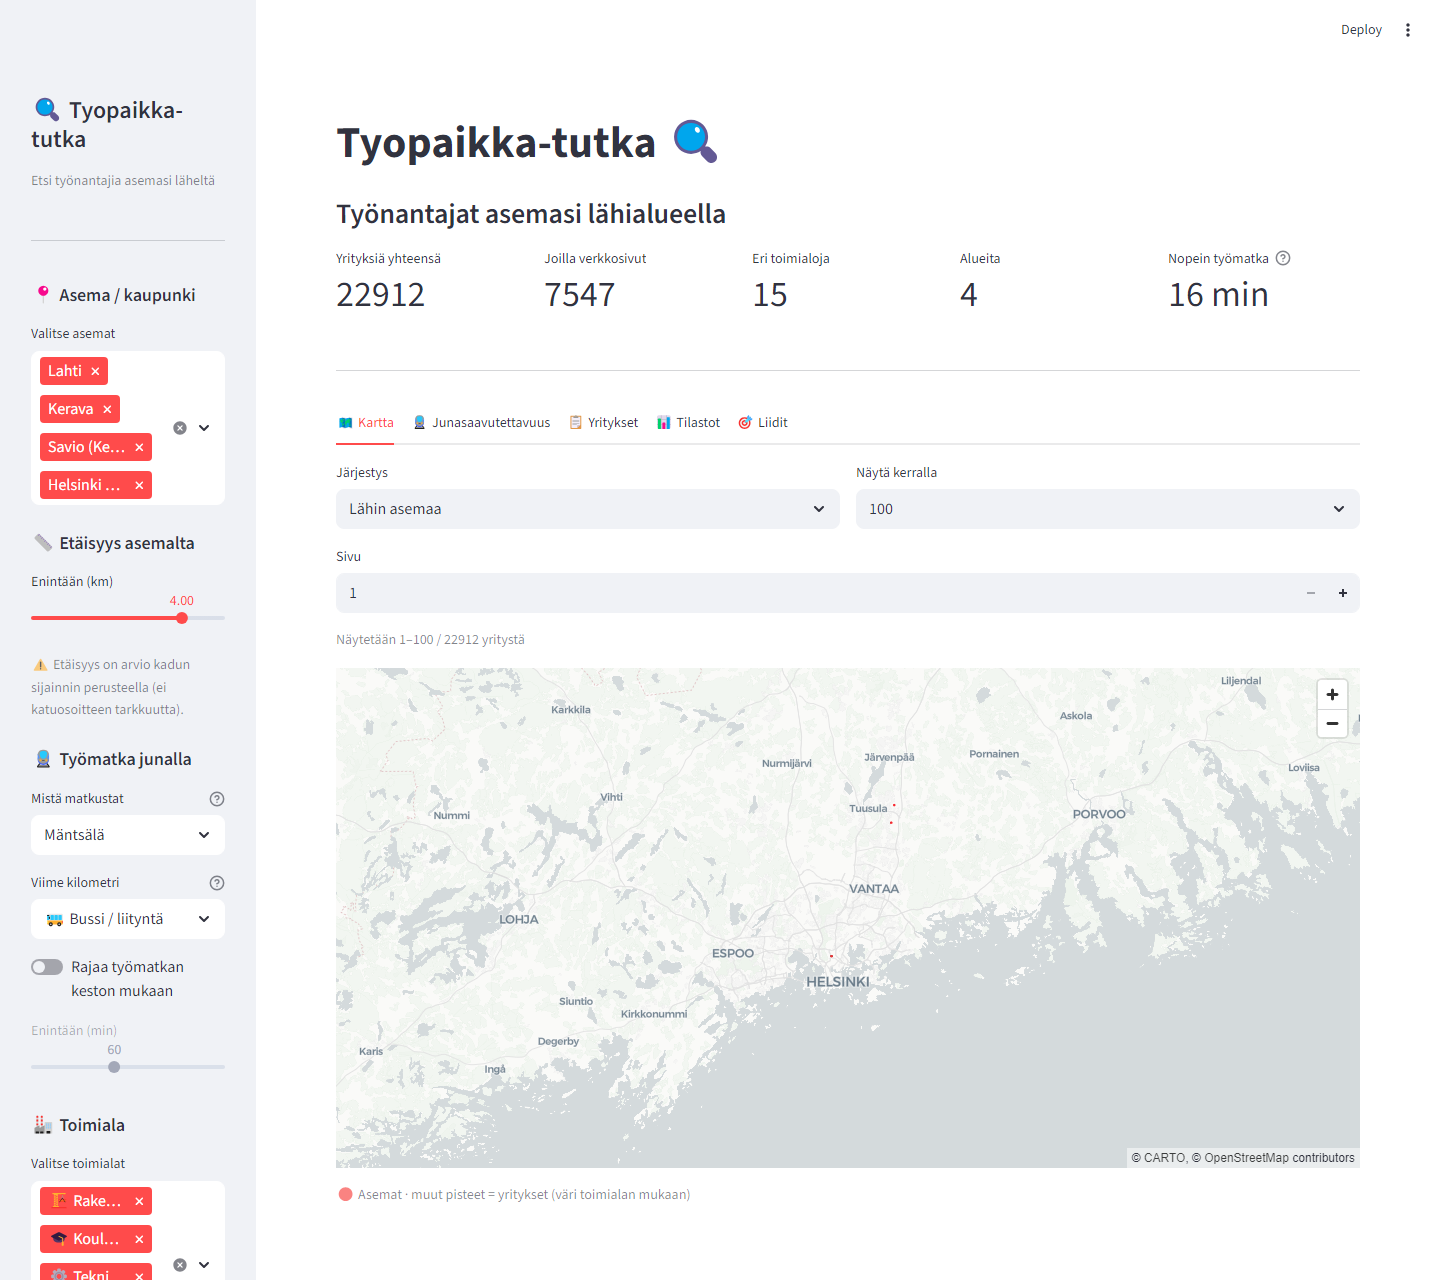
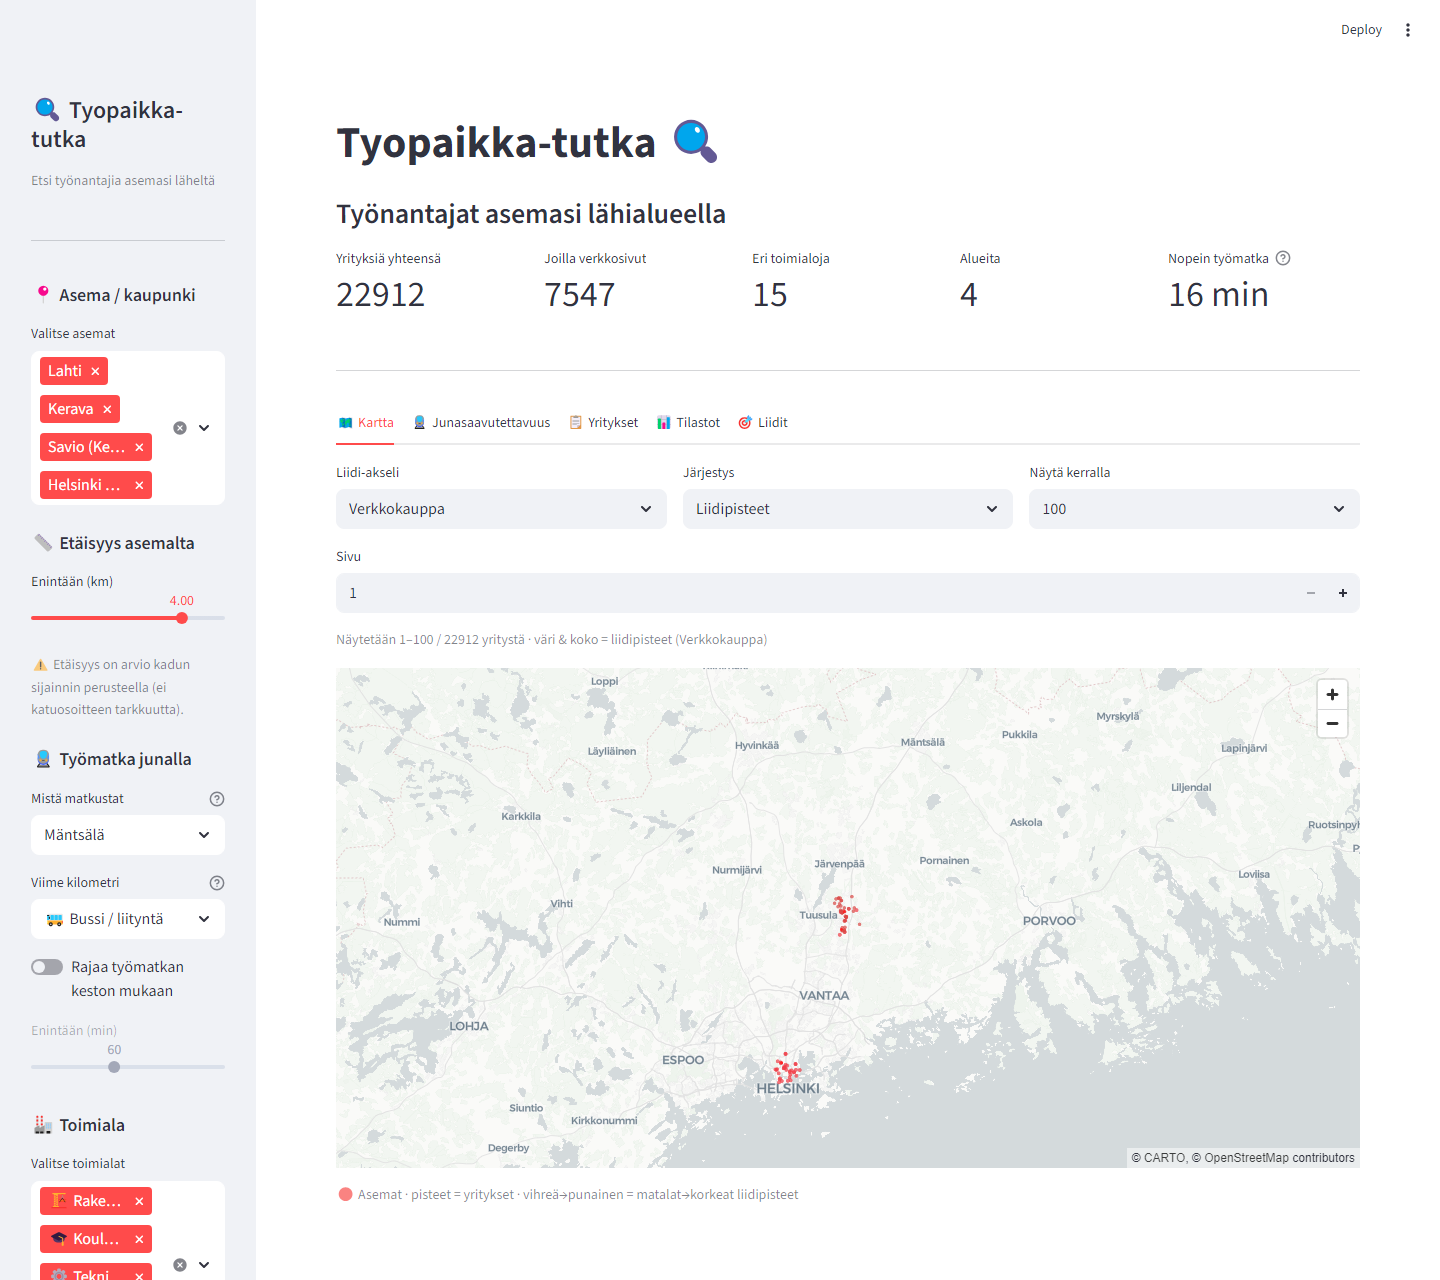
feat: lead-scored map — color/size by lead score, sortable by city
Map is now filled from lead scoring: pick a service axis (Verkkokauppa/PIM/Data), points are coloured (green→red) and sized by that lead score. Sort by lead score, by city (nearest_station), or closest; page through 100/250/500/1000/all. Tooltip shows city + lead score.

Lead scoring was extracted to a shared add_lead_scores() near the top and computed once on the filtered df, so the map and the Liidit tab use the same s_webshop/s_pim/s_data columns (Liidit no longer recomputes them).

diff --git a/streamlit_app.py b/streamlit_app.py
@@ -33,6 +33,53 @@ ACCESS_MODE_LABELS = {
     "bus": "🚌 Bussi / liityntä",
 }
 
+# ---- Lead scoring -------------------------------------------------------
+# Score 0-8 per service axis: TOI industry fit + company age (old = likely
+# modernisation need) + has a website (digitally reachable).
+_WEBSHOP = {
+    "4754": 6, "4763": 6, "4764": 6, "4761": 6, "4762": 6, "4752": 6, "4741": 6,
+    "4753": 5, "4759": 5, "4771": 5, "4772": 5, "4775": 5, "4776": 5, "4774": 5,
+    "4779": 5, "4781": 5, "4782": 5, "4789": 5, "4791": 5,
+    "474": 5, "475": 5, "476": 5, "477": 5, "478": 5, "479": 5,
+    "47": 4, "472": 3, "471": 3, "473": 2, "46": 3, "45": 2,
+    "10": 2, "11": 2, "13": 2, "14": 2, "20": 2, "22": 2, "23": 2, "24": 2,
+    "25": 2, "26": 2, "27": 2, "28": 2, "29": 2, "31": 2, "32": 2,
+    "33": 1, "49": 1, "52": 1,
+}
+_PIM = {
+    "4684": 5, "4641": 5, "4642": 5, "4664": 5, "4663": 5, "4665": 4, "4649": 4,
+    "4646": 4, "464": 3, "463": 3, "46": 2, "47": 2,
+    "28": 3, "29": 3, "25": 3, "26": 3, "27": 3, "20": 2, "22": 2,
+}
+_DATA = {
+    "52": 4, "49": 4, "64": 3, "65": 3, "33": 3, "71": 3, "86": 3,
+    "28": 2, "25": 2, "26": 2, "46": 2, "85": 1, "35": 2,
+}
+
+LEAD_AXES = {"Verkkokauppa": "s_webshop", "PIM": "s_pim", "Data": "s_data"}
+LEAD_SCORE_MAX = 8
+
+
+def _pscore(toi, smap):
+    code = str(toi).split(".")[0].strip() if pd.notna(toi) else ""
+    return max((v for k, v in smap.items() if code.startswith(k)), default=0)
+
+
+def add_lead_scores(frame: pd.DataFrame) -> pd.DataFrame:
+    """Add lead scores (s_webshop/s_pim/s_data, 0-8) for sales prioritisation."""
+    out = frame.copy()
+    out["s_webshop"] = out["toi_code"].apply(lambda t: _pscore(t, _WEBSHOP))
+    out["s_pim"] = out["toi_code"].apply(lambda t: _pscore(t, _PIM))
+    out["s_data"] = out["toi_code"].apply(lambda t: _pscore(t, _DATA))
+    legacy = (
+        pd.to_datetime(out["registered"], errors="coerce").dt.year.fillna(2020) <= 2010
+    ).astype(int)
+    web = out["best_website"] if "best_website" in out.columns else out.get("website")
+    has_web = web.notna().astype(int) if web is not None else 0
+    for col in ("s_webshop", "s_pim", "s_data"):
+        out[col] = out[col] + legacy + has_web
+    return out
+
 # ---------------------------------------------------------------------------
 # Config
 # ---------------------------------------------------------------------------
@@ -229,6 +276,9 @@ df["commute_min"] = [
 if commute_limit_on:
     df = df[df["commute_min"].notna() & (df["commute_min"] <= max_commute)]
 
+# Lead scores (s_webshop/s_pim/s_data) for the map and the Liidit tab.
+df = add_lead_scores(df)
+
 # ---------------------------------------------------------------------------
 # Main content
 # ---------------------------------------------------------------------------
@@ -264,24 +314,30 @@ with tab_map:
     if valid_coords.empty:
         st.info("Ei koordinaatteja saatavilla valituille yrityksille.")
     else:
-        # Sorting + paging so the map stays readable instead of dumping all
-        # points at once. With the station filter this gives "top 100 of Kerava,
-        # next 100, ...".
-        c1, c2 = st.columns([1, 1])
-        sort_choice = c1.selectbox(
-            "Järjestys",
-            ["Lähin asemaa", "Nopein työmatka", "Uusin yritys"],
+        # The map is filled from lead scoring: points are coloured and sized by
+        # their lead score for the chosen axis, browsable in pages and sortable
+        # by city (station). With the station filter this gives e.g. "top 100
+        # leads of Kerava, next 100, ...".
+        c1, c2, c3 = st.columns(3)
+        axis_label = c1.selectbox("Liidi-akseli", list(LEAD_AXES.keys()))
+        axis_col = LEAD_AXES[axis_label]
+        sort_choice = c2.selectbox(
+            "Järjestys", ["Liidipisteet", "Kaupunki (asema)", "Lähin asemaa"]
         )
-        page_size_label = c2.selectbox(
+        page_size_label = c3.selectbox(
             "Näytä kerralla", ["100", "250", "500", "1000", "Kaikki"], index=0
         )
 
-        if sort_choice == "Nopein työmatka":
-            valid_coords = valid_coords.sort_values("commute_min", na_position="last")
-        elif sort_choice == "Uusin yritys":
-            valid_coords = valid_coords.sort_values("registered", ascending=False, na_position="last")
-        else:
+        if sort_choice == "Kaupunki (asema)":
+            valid_coords = valid_coords.sort_values(
+                ["nearest_station", axis_col], ascending=[True, False], na_position="last"
+            )
+        elif sort_choice == "Lähin asemaa":
             valid_coords = valid_coords.sort_values("distance_km", na_position="last")
+        else:
+            valid_coords = valid_coords.sort_values(
+                [axis_col, "commute_min"], ascending=[False, True], na_position="last"
+            )
 
         total = len(valid_coords)
         page_size = total if page_size_label == "Kaikki" else int(page_size_label)
@@ -292,19 +348,33 @@ with tab_map:
         lo = (int(page) - 1) * page_size
         hi = min(lo + page_size, total)
         page_df = valid_coords.iloc[lo:hi].copy()
-        st.caption(f"Näytetään {lo + 1}–{hi} / {total} yritystä")
+        st.caption(
+            f"Näytetään {lo + 1}–{hi} / {total} yritystä · väri & koko = liidipisteet ({axis_label})"
+        )
 
         page_df["commute_disp"] = page_df["commute_min"].map(
             lambda v: f"{v:.0f} min" if pd.notna(v) else "–"
         )
+        page_df["lead_score"] = page_df[axis_col]
+
+        def _lead_color(s):
+            t = max(0.0, min(1.0, (float(s) if pd.notna(s) else 0) / LEAD_SCORE_MAX))
+            return [int(70 + 170 * t), int(170 - 110 * t), 70, 200]
+
+        page_df["color"] = page_df["lead_score"].map(_lead_color)
+        page_df["radius"] = page_df["lead_score"].map(
+            lambda s: 70 + (float(s) if pd.notna(s) else 0) * 28
+        )
+
         scatter = pdk.Layer(
             "ScatterplotLayer",
             data=page_df[
-                ["lat", "lon", "name", "industry", "distance_km", "commute_disp", "best_website", "color"]
+                ["lat", "lon", "name", "nearest_station", "lead_score", "industry",
+                 "commute_disp", "best_website", "color", "radius"]
             ].copy(),
             get_position=["lon", "lat"],
-            get_color="color",
-            get_radius=90,
+            get_fill_color="color",
+            get_radius="radius",
             pickable=True,
             opacity=0.8,
         )
@@ -313,7 +383,8 @@ with tab_map:
         station_data = [
             {
                 "lat": v["lat"], "lon": v["lon"], "name": f"🚉 {v['label']}",
-                "industry": "Asema", "distance_km": "", "commute_disp": "", "best_website": "",
+                "nearest_station": k, "lead_score": "", "industry": "Asema",
+                "commute_disp": "", "best_website": "",
             }
             for k, v in STATION_INFO.items()
             if k in selected_keys
@@ -322,13 +393,11 @@ with tab_map:
             "ScatterplotLayer",
             data=station_data,
             get_position=["lon", "lat"],
-            get_color=[255, 30, 30, 200],
-            get_radius=200,
+            get_fill_color=[255, 30, 30, 220],
+            get_radius=220,
             pickable=True,
         )
-        # Auto-fit the view to the points actually shown, so paging or a
-        # single-station filter frames the right area instead of centring on
-        # empty space between distant clusters.
+        # Auto-fit the view to the points actually shown.
         try:
             view = pdk.data_utils.compute_view(
                 page_df[["lon", "lat"]].astype(float).values.tolist()
@@ -345,12 +414,14 @@ with tab_map:
             layers=[scatter, station_layer],
             initial_view_state=view,
             tooltip={
-                "text": "{name}\nToimiala: {industry}\nEtäisyys: {distance_km} km\nTyömatka: {commute_disp}\n{best_website}"
+                "text": "{name}\nKaupunki: {nearest_station}\nLiidipisteet: {lead_score}\nToimiala: {industry}\nTyömatka: {commute_disp}\n{best_website}"
             },
             map_style=CARTO_BASEMAP,
         )
         st.pydeck_chart(chart)
-        st.caption("🔴 Asemat · muut pisteet = yritykset (väri toimialan mukaan)")
+        st.caption(
+            "🔴 Asemat · pisteet = yritykset · vihreä→punainen = matalat→korkeat liidipisteet"
+        )
 
 # ---- Train reach (isochrone) -------------------------------------------
 with tab_reach:
@@ -513,104 +584,7 @@ with tab_table:
         mime="text/csv",
     )
 
-# ---- Leads -------------------------------------------------------------
-# Lead scoring — runs on the already-filtered df
-# Specialty retail (games, sports, hobbies, books, electronics, fashion, optics) → highest
-# General retail (grocery, hypermarket, food specialists) → lower; petrol/kiosk → lowest
-_WEBSHOP = {
-    "4754": 6,
-    "4763": 6,
-    "4764": 6,
-    "4761": 6,
-    "4762": 6,
-    "4752": 6,
-    "4741": 6,  # ICT,games/toys,sports,books,music,hardware,optics
-    "4753": 5,
-    "4759": 5,
-    "4771": 5,
-    "4772": 5,
-    "4775": 5,
-    "4776": 5,
-    "4774": 5,  # carpets,other home,clothing,footwear,cosmetics,flowers/pets,eyewear
-    "4779": 5,
-    "4781": 5,
-    "4782": 5,
-    "4789": 5,
-    "4791": 5,  # 2nd hand, market stalls, specialty
-    "474": 5,
-    "475": 5,
-    "476": 5,
-    "477": 5,
-    "478": 5,
-    "479": 5,  # other specialty retail subcategories
-    "47": 4,  # general catch-all retail
-    "472": 3,
-    "471": 3,  # food/grocery specialist and hypermarket
-    "473": 2,  # petrol stations
-    "46": 3,
-    "45": 2,
-    "10": 2,
-    "11": 2,
-    "13": 2,
-    "14": 2,
-    "20": 2,
-    "22": 2,
-    "23": 2,
-    "24": 2,
-    "25": 2,
-    "26": 2,
-    "27": 2,
-    "28": 2,
-    "29": 2,
-    "31": 2,
-    "32": 2,
-    "33": 1,
-    "49": 1,
-    "52": 1,
-}
-_PIM = {
-    "4684": 5,
-    "4641": 5,
-    "4642": 5,
-    "4664": 5,
-    "4663": 5,
-    "4665": 4,
-    "4649": 4,
-    "4646": 4,
-    "464": 3,
-    "463": 3,
-    "46": 2,
-    "47": 2,
-    "28": 3,
-    "29": 3,
-    "25": 3,
-    "26": 3,
-    "27": 3,
-    "20": 2,
-    "22": 2,
-}
-_DATA = {
-    "52": 4,
-    "49": 4,
-    "64": 3,
-    "65": 3,
-    "33": 3,
-    "71": 3,
-    "86": 3,
-    "28": 2,
-    "25": 2,
-    "26": 2,
-    "46": 2,
-    "85": 1,
-    "35": 2,
-}
-
-
-def _pscore(toi, smap):
-    code = str(toi).split(".")[0].strip() if pd.notna(toi) else ""
-    return max((v for k, v in smap.items() if code.startswith(k)), default=0)
-
-
+# ---- Leads tab (scoring helpers are defined near the top of the file) ----
 with tab_leads:
     st.subheader("🎯 Liidipisteytys — keiden kannattaa ensin soittaa?")
     st.caption(
@@ -619,17 +593,7 @@ with tab_leads:
         "Valitse kategoria joka kiinnostaa sinua eniten."
     )
 
-    scored = df.copy()
-    scored["s_webshop"] = scored["toi_code"].apply(lambda t: _pscore(t, _WEBSHOP))
-    scored["s_pim"] = scored["toi_code"].apply(lambda t: _pscore(t, _PIM))
-    scored["s_data"] = scored["toi_code"].apply(lambda t: _pscore(t, _DATA))
-    legacy = (
-        pd.to_datetime(scored["registered"], errors="coerce").dt.year.fillna(2020)
-        <= 2010
-    ).astype(int)
-    has_web = scored["best_website"].notna().astype(int)
-    for col in ["s_webshop", "s_pim", "s_data"]:
-        scored[col] += legacy + has_web
+    scored = df.copy()  # lead scores (s_webshop/s_pim/s_data) already computed above
 
     lead_axis = st.radio(
         "Palvelutyyppi",
